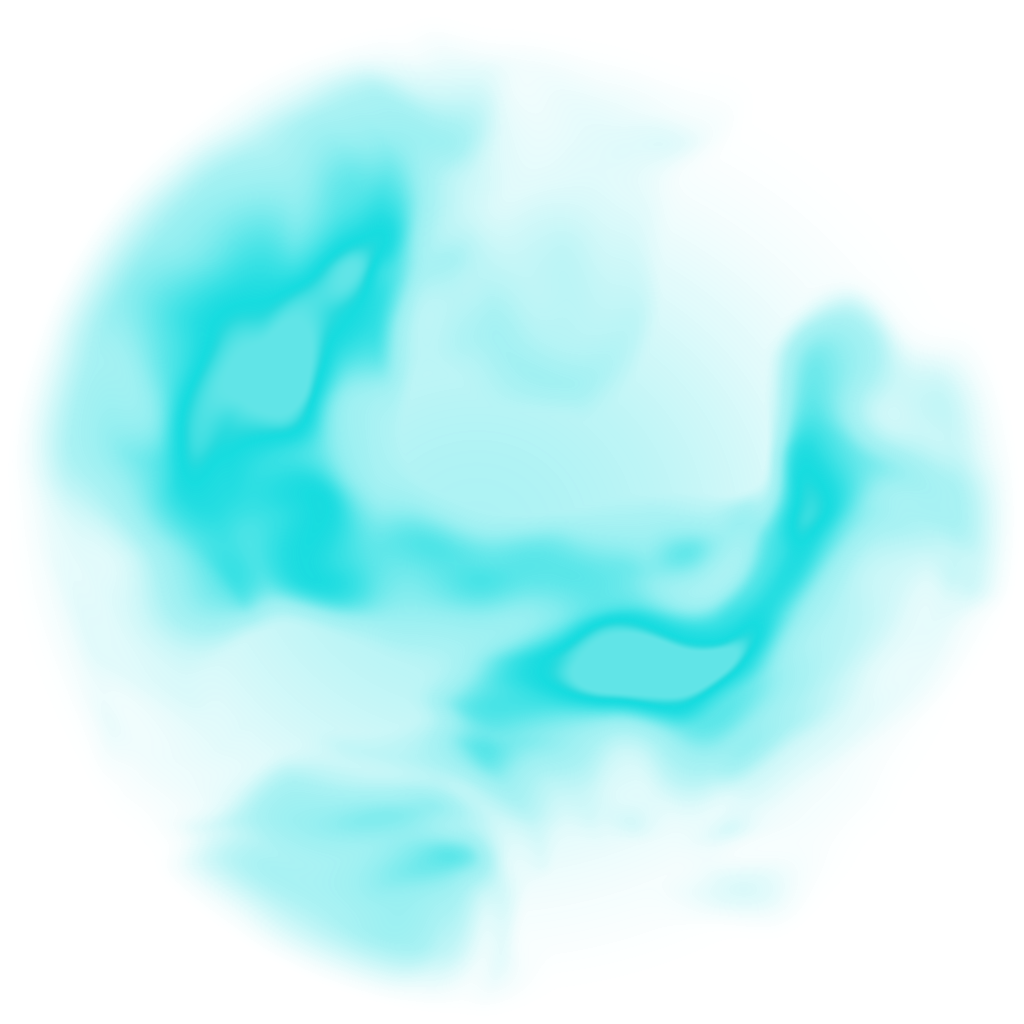
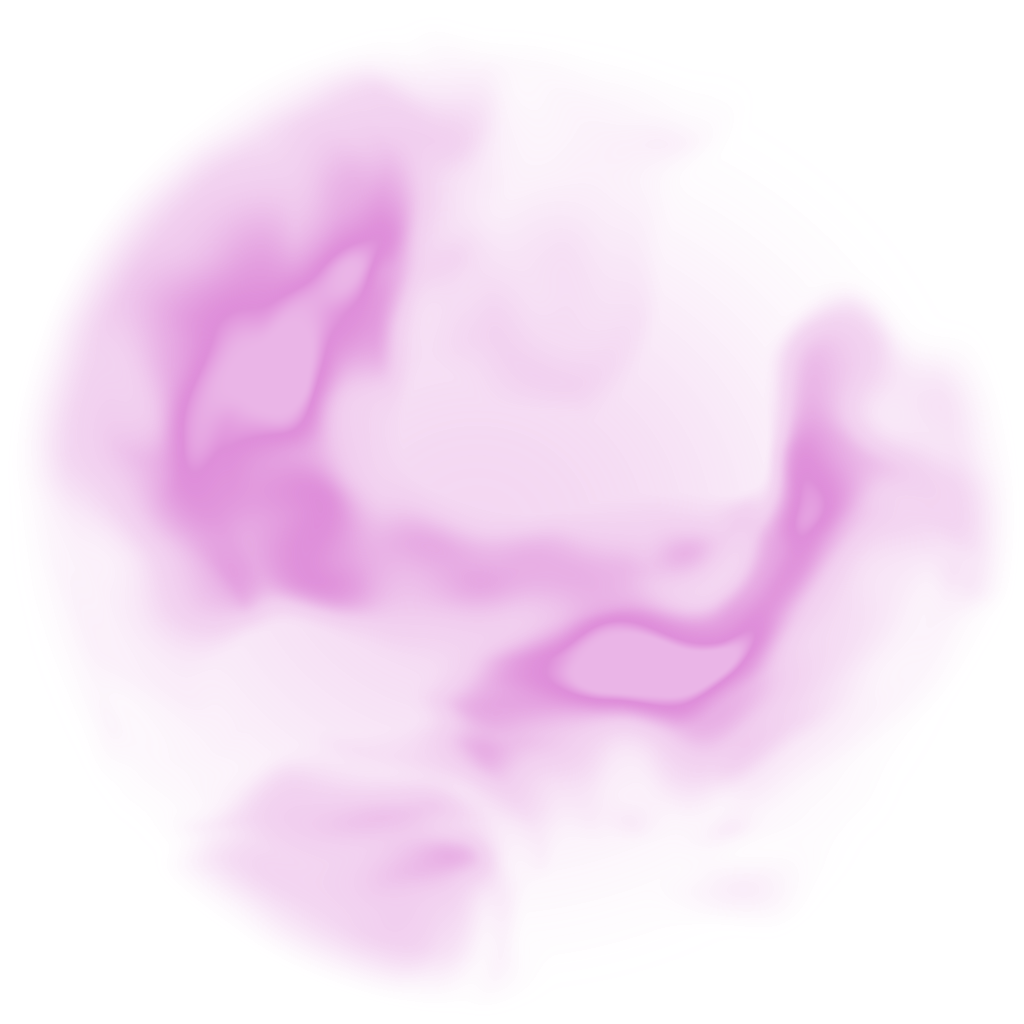
Colours: primary #ea94e5, secondary #e3cce7 (Color studio)

diff --git a/app/globals.css b/app/globals.css
@@ -66,9 +66,9 @@
  * Když se mluví o „primární“, je to ta růžová. Color studio mění primární, sekundární a pozadí.
  */
 :root {
-  --secondary-h: 198.7;
-  --secondary-c: 0;
-  --secondary-l-adj: -0.026; /* posun světlosti od základních 0,78 */
+  --secondary-h: 321.2;
+  --secondary-c: 0.0442;
+  --secondary-l-adj: 0.0924; /* posun světlosti od základních 0,78 */
 
   --secondary: oklch(calc(0.78 + var(--secondary-l-adj)) var(--secondary-c) var(--secondary-h));
   --secondary-strong: oklch(calc(0.7 + var(--secondary-l-adj)) var(--secondary-c) var(--secondary-h));
@@ -79,9 +79,9 @@
   --on-accent: oklch(0.2 0.02 var(--secondary-h));
 
   /* Primární barva (růžová): odstín, sytost, posun světlosti. Color studio je přepisuje. */
-  --primary-h: 197.1;
-  --primary-c: 0.1394;
-  --primary-l-adj: 0.0456;
+  --primary-h: 328.9;
+  --primary-c: 0.1453;
+  --primary-l-adj: 0.0003;
   --primary: oklch(calc(0.78 + var(--primary-l-adj)) var(--primary-c) var(--primary-h));
   --primary-deep: oklch(calc(0.6 + var(--primary-l-adj)) calc(var(--primary-c) * 1.15) var(--primary-h));
   --primary-glow: oklch(calc(0.78 + var(--primary-l-adj)) var(--primary-c) var(--primary-h) / 0.5);
@@ -94,9 +94,9 @@
 
   /* Tmavé téma (výchozí) */
   /* Pozadí: světlost / sytost / odstín jedné barvy (Color studio), ostatní neutrály jsou její odvozeniny */
-  --bgd-l: 0.1654;
-  --bgd-c: 0.0153;
-  --bgd-h: 220.2;
+  --bgd-l: 0.1893;
+  --bgd-c: 0.0118;
+  --bgd-h: 319.5;
   --bgl-l: 0.9194;
   --bgl-c: 0.0395;
   --bgl-h: 280.9;

diff --git a/components/ColorStudio.tsx b/components/ColorStudio.tsx
@@ -20,7 +20,7 @@ const KEY = 'brand-v7';
 const VARS_KEY = 'brand-vars-v2'; // všechny spočítané CSS proměnné; layout.tsx je obnoví před prvním vykreslením
 // p = primární (růžová), s = sekundární (šedá), bd / bl = pozadí tmavého / světlého tématu
 type Brand = { p: string; s: string; bd: string; bl: string };
-const DEF: Brand = { p: '#0de1e5', s: '#afafaf', bd: '#071013', bl: '#dfe2ff' };
+const DEF: Brand = { p: '#ea94e5', s: '#e3cce7', bd: '#161217', bl: '#dfe2ff' };
 const SECONDARY_HUE = 198.7; // šedá nemá odstín, neutrály si drží tenhle
 
 const round = (n: number, d = 3) => +n.toFixed(d);
